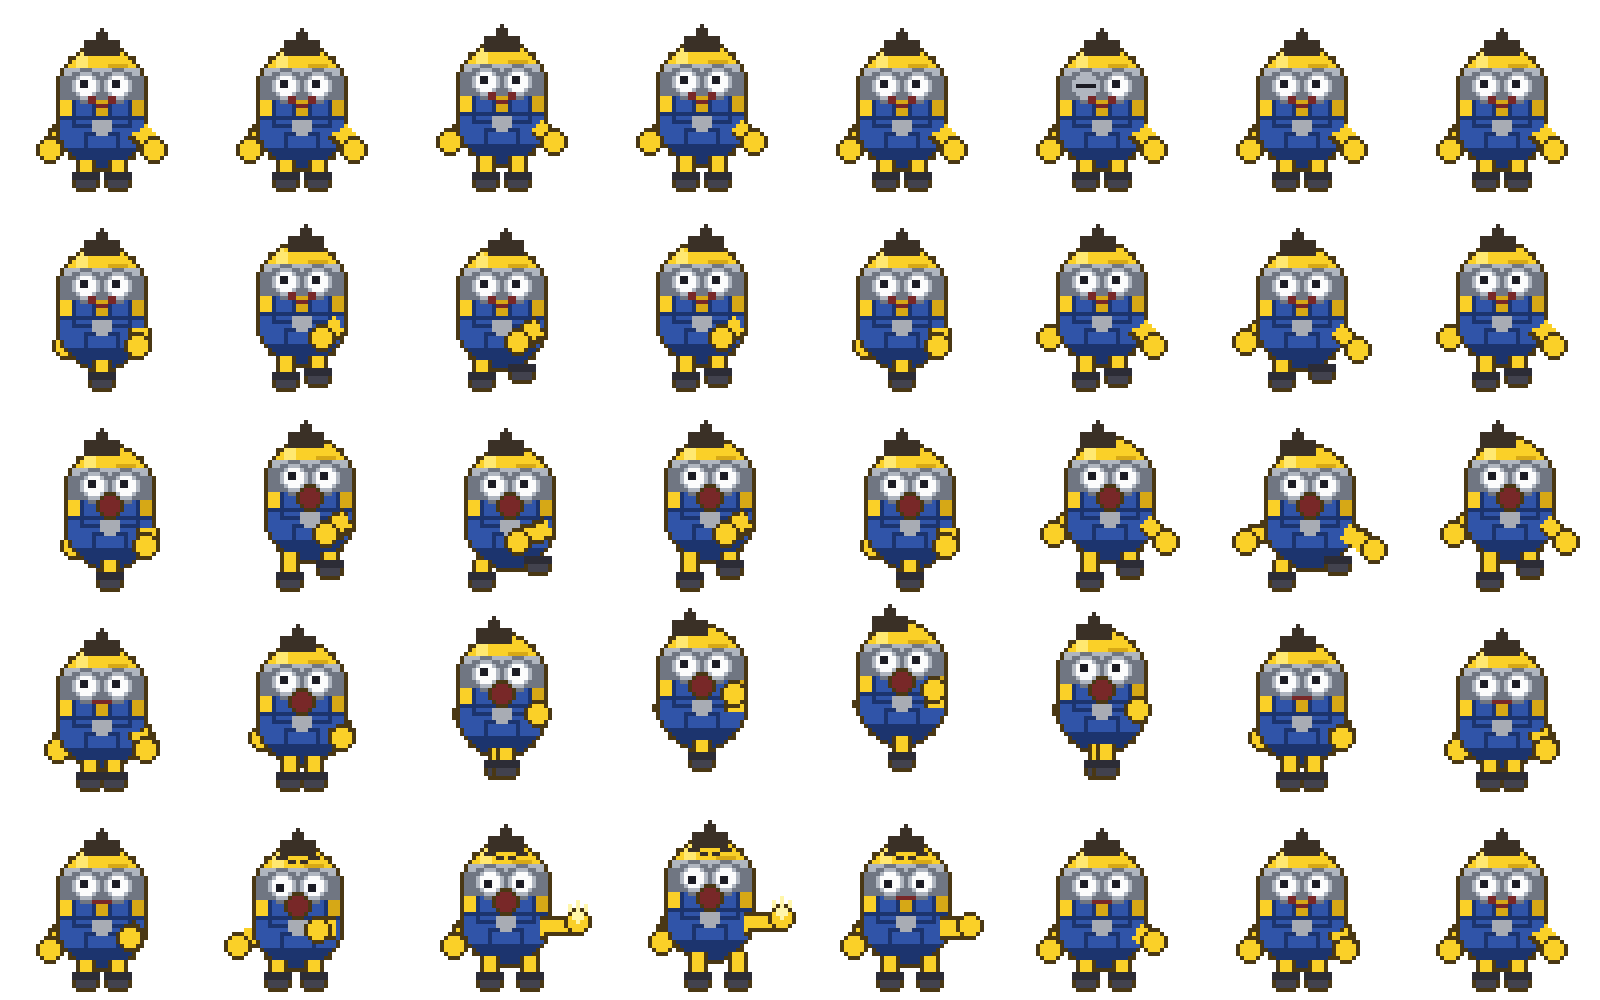
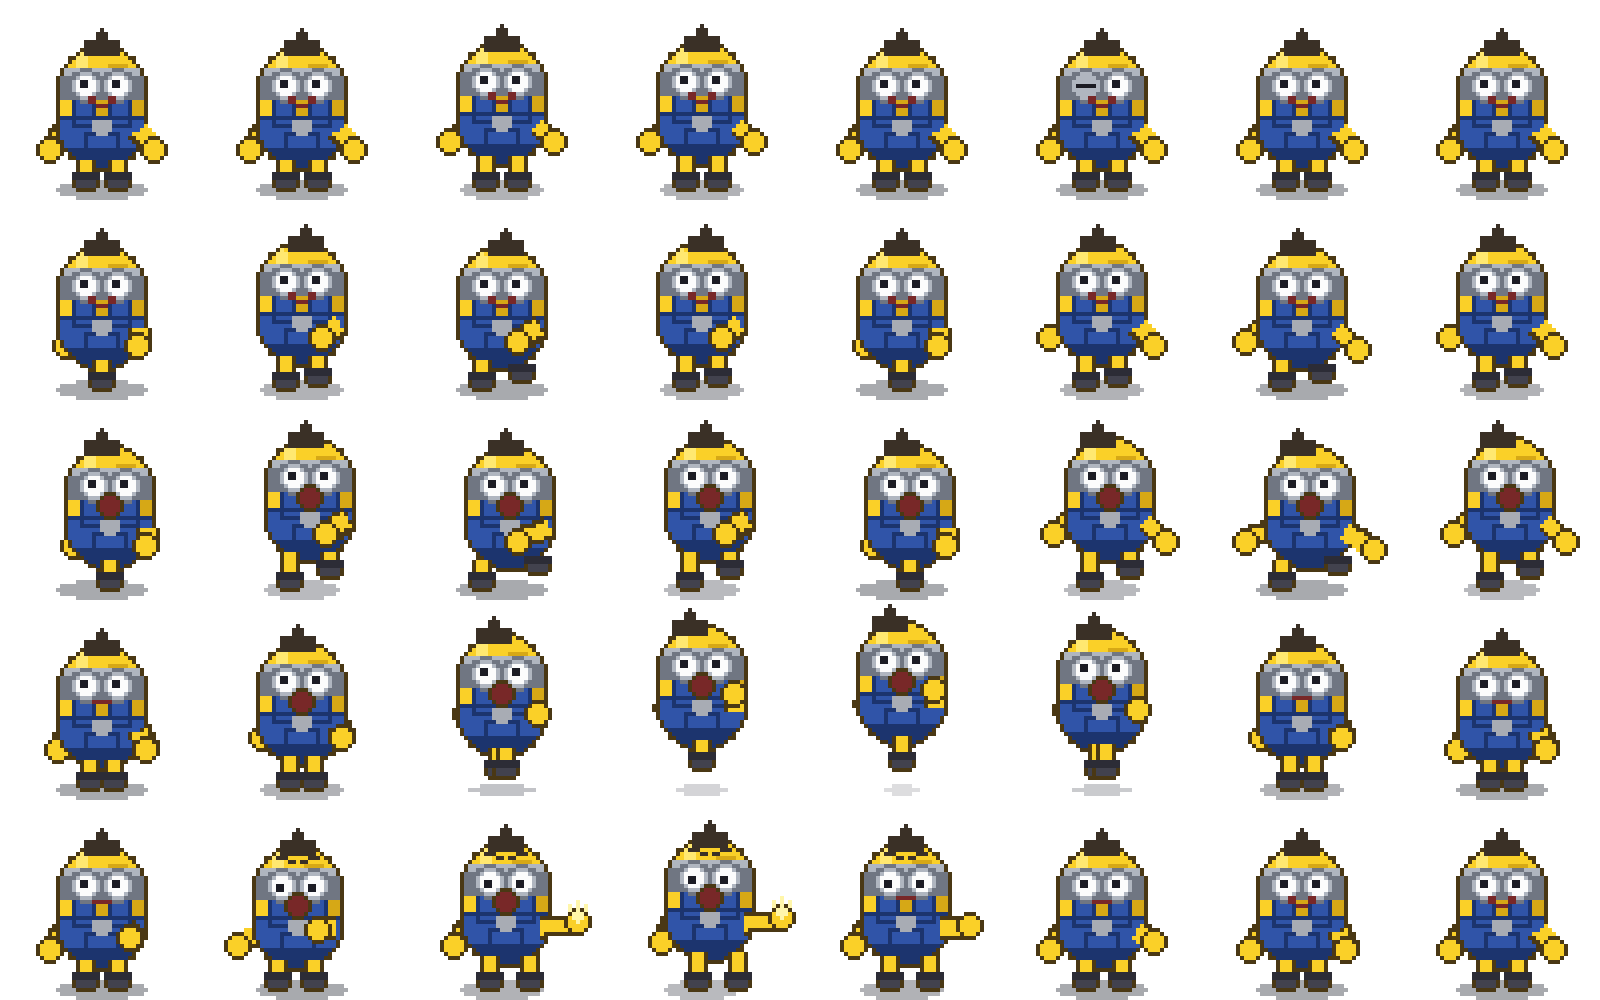
스프라이트 시트에 접지 그림자 추가: 캐릭터가 바닥에 서 있는 느낌을 주고 점프 높이도 보이게 함

diff --git a/Labs/LEC08_Animation/make_minion_sheet.py b/Labs/LEC08_Animation/make_minion_sheet.py
@@ -263,12 +263,26 @@ def draw_foot(draw, pose, offset):
     return draw
 
 
+def draw_shadow(draw, pose):
+    """바닥에 드리우는 타원 그림자.
+
+    몸이 높이 뜰수록 그림자가 작아지고 옅어져, 점프 높이를 눈으로 알 수 있다.
+    """
+    lift = max(0, -pose['body_dy'])
+    scale = max(0.4, 1.0 - 0.1 * lift)
+    rx = max(2, int(round(11 * scale)))
+    ry = max(1, int(round(2 * scale)))
+    draw.ellipse([BODY_CX - rx, GROUND - ry, BODY_CX + rx, GROUND + ry],
+                 fill=(24, 28, 40, int(round(96 * scale))))
+
+
 def make_frame(**overrides):
     """자세 정보를 받아 200x200 한 셀짜리 프레임을 만든다."""
     pose = default_pose(**overrides)
 
     frame = new_frame()
     draw = ImageDraw.Draw(frame)
+    draw_shadow(draw, pose)
     draw_arm(draw, pose, -1, pose['arm_back'])
 
     draw_body(frame, pose)
